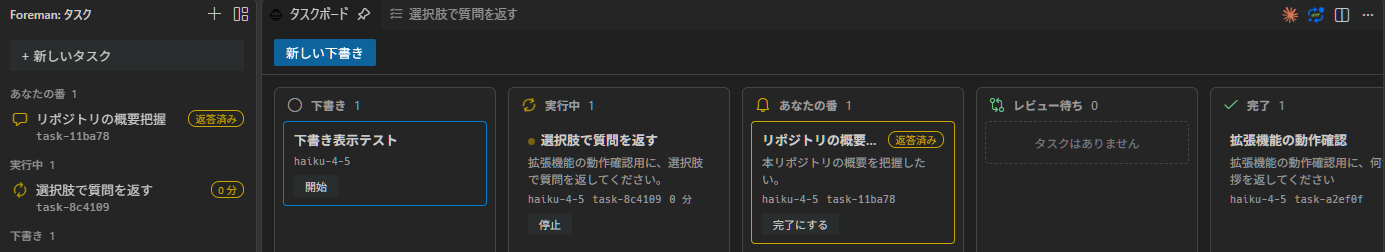
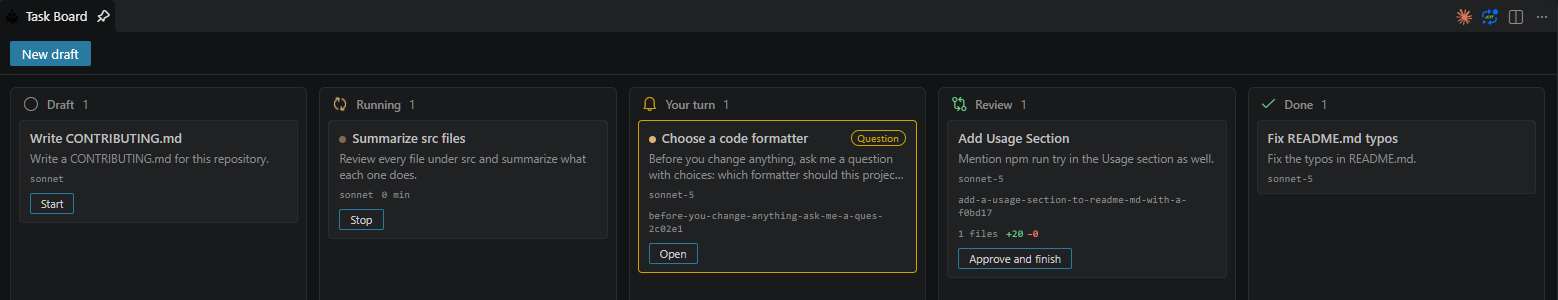
docs(readme): スクリーンショットを英語表示の今の画面に差し替える

diff --git a/README.md b/README.md
@@ -8,7 +8,7 @@ Run Claude Code sessions as tasks inside Visual Studio Code. Start them side by 
 
 Foreman uses the `claude` CLI that is already installed and logged in on your machine. It works with your own Claude subscription (Pro / Max) or API key. You need neither a GitHub Copilot subscription nor a GitHub sign-in.
 
-![Tasks in the sidebar, a task view with its diff card, and the changes of the task in the secondary side bar](images/task-view.png)
+![Tasks in the sidebar, a task view with two turns and their diff cards, and the changes and session of the task in the secondary side bar](images/task-view.png)
 
 ## Getting started
 
@@ -55,7 +55,7 @@ The task board, with one main action per card:
 
 ![Task board with draft, running, your turn, review and done columns](images/board.png)
 
-The screenshots show the Japanese display language. The extension follows the display language of Visual Studio Code.
+The extension follows the display language of Visual Studio Code (English and Japanese).
 
 ## Requirements
 
